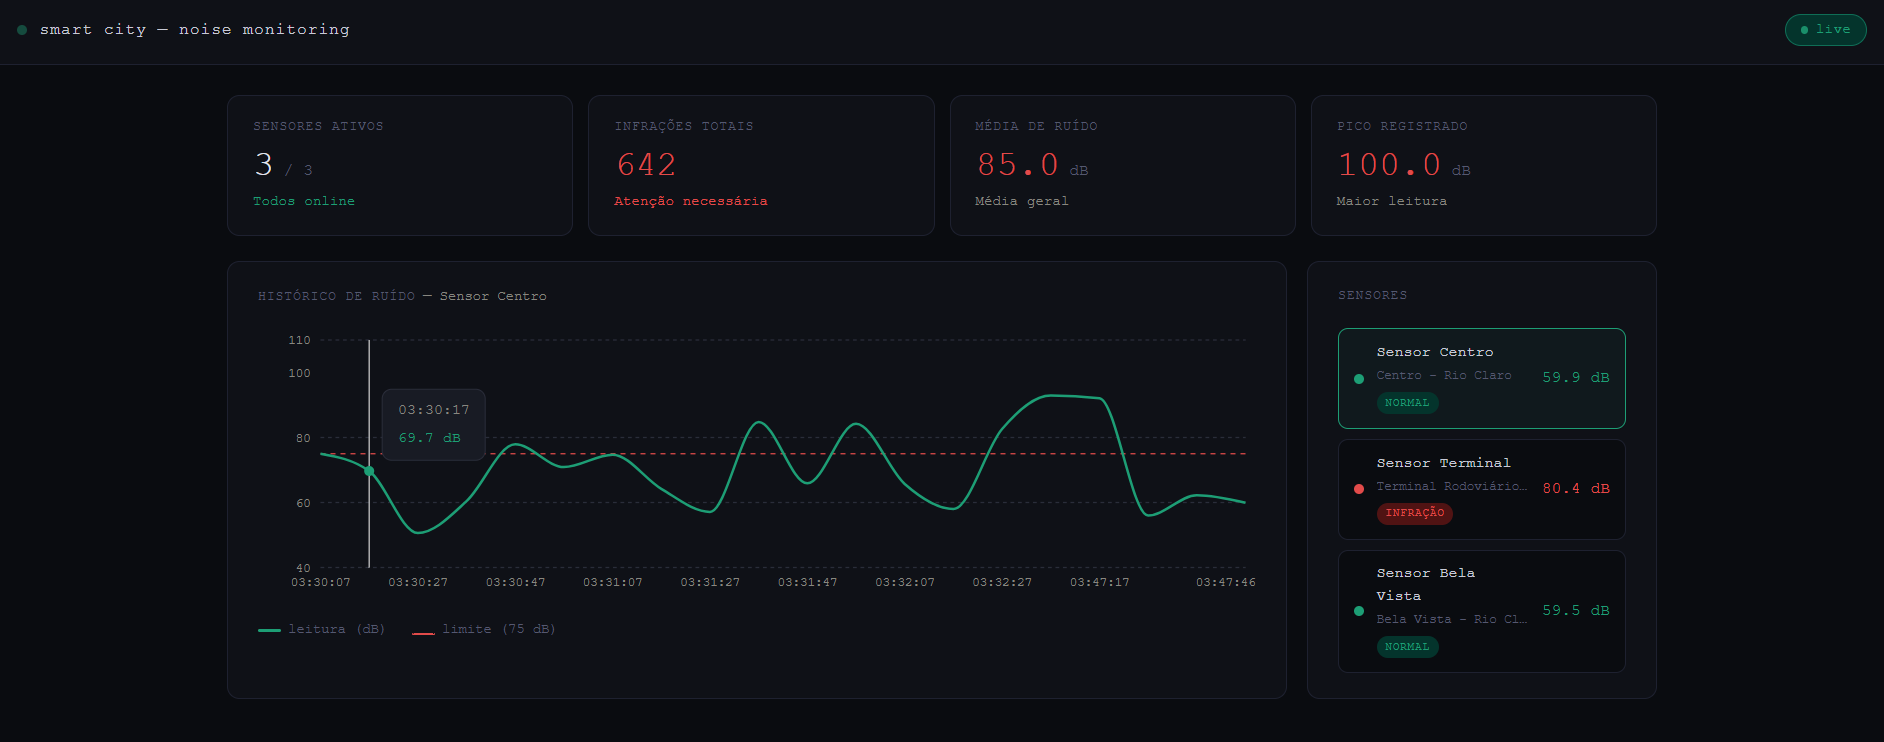
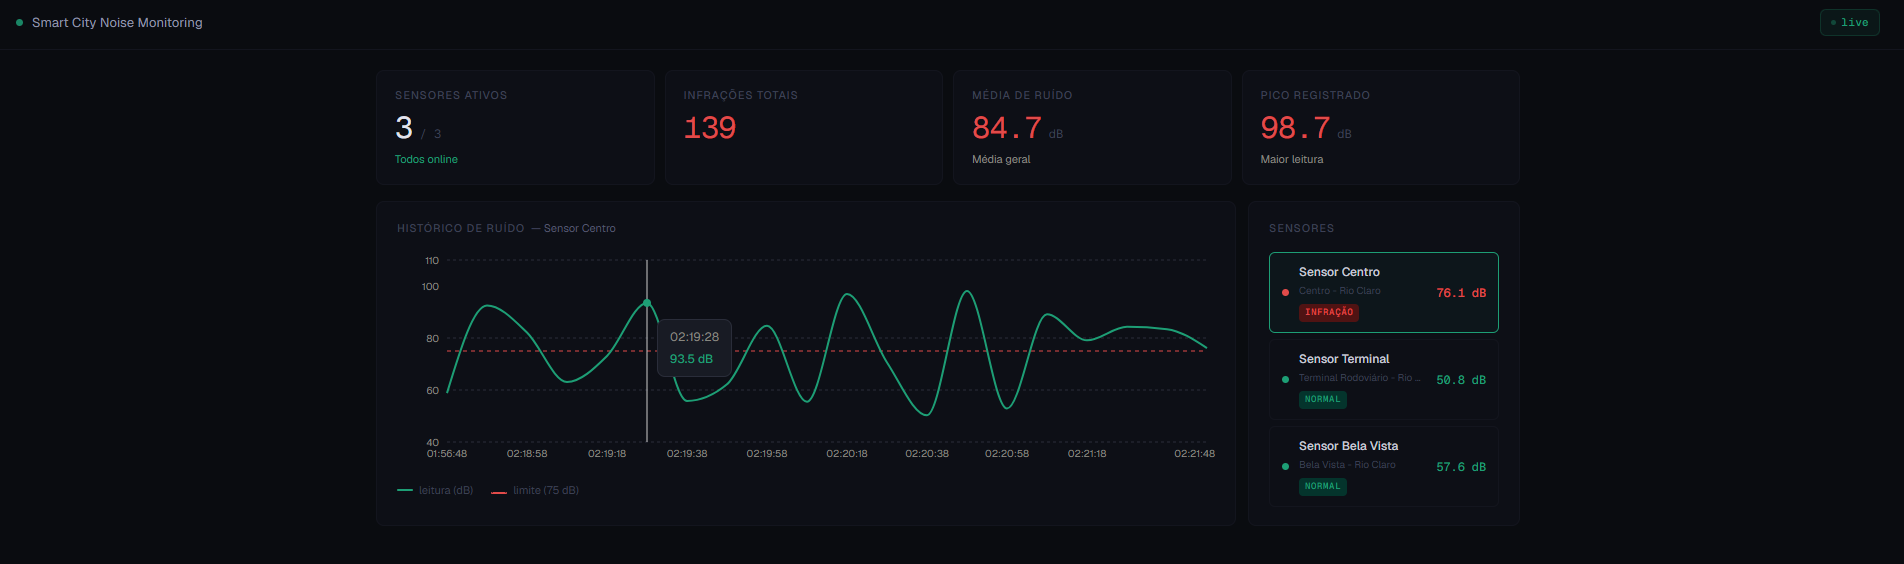
feat: improve dashboard visual design

diff --git a/frontend/src/App.css b/frontend/src/App.css
@@ -3,7 +3,7 @@
 body {
   background: #0a0c10;
   color: #e2e4ed;
-  font-family: 'DM Mono', 'Fira Code', 'Courier New', monospace;
+  font-family: 'Geist', 'Inter', system-ui, sans-serif;
   -webkit-font-smoothing: antialiased;
   min-height: 100vh;
   display: block;
@@ -22,9 +22,9 @@ body {
 }
 
 .topbar {
-  background: #0f1117;
-  border-bottom: 0.5px solid #1e2130;
-  padding: 14px 28px;
+  background: #0a0c10;
+  border-bottom: 1px solid #13151e;
+  padding: 13px 28px;
   display: flex;
   align-items: center;
   justify-content: space-between;
@@ -36,60 +36,60 @@ body {
 .topbar-left {
   display: flex;
   align-items: center;
-  gap: 10px;
+  gap: 9px;
 }
 
 .logo-dot {
-  width: 8px;
-  height: 8px;
+  width: 7px;
+  height: 7px;
   border-radius: 50%;
   background: #1D9E75;
   animation: pulse 2.5s ease-in-out infinite;
+  flex-shrink: 0;
 }
 
 @keyframes pulse {
   0%, 100% { opacity: 1; }
-  50%       { opacity: 0.4; }
+  50%       { opacity: 0.35; }
 }
 
 .logo-text {
   font-size: 13px;
-  font-weight: 500;
-  color: #c8cad6;
-  letter-spacing: 0.06em;
-  text-transform: lowercase;
+  font-weight: 400;
+  color: #9095a8;
+  letter-spacing: 0.01em;
 }
 
 .topbar-right {
   display: flex;
   align-items: center;
-  gap: 16px;
 }
 
 .live-badge {
   display: flex;
   align-items: center;
-  gap: 6px;
+  gap: 5px;
   font-size: 11px;
   font-weight: 500;
   color: #1D9E75;
-  background: #04342C;
-  padding: 4px 12px;
-  border-radius: 20px;
-  border: 0.5px solid #0F6E56;
-  letter-spacing: 0.04em;
+  background: rgba(29, 158, 117, 0.08);
+  padding: 4px 10px;
+  border-radius: 6px;
+  border: 1px solid rgba(29, 158, 117, 0.2);
+  letter-spacing: 0.03em;
+  font-family: 'Geist Mono', 'DM Mono', monospace;
 }
 
 .live-dot {
-  width: 6px;
-  height: 6px;
+  width: 5px;
+  height: 5px;
   border-radius: 50%;
   background: #1D9E75;
   animation: pulse 1.8s ease-in-out infinite;
 }
 
 .content {
-  padding: 24px 28px;
+  padding: 20px 28px 28px;
   max-width: 1200px;
   margin: 0 auto;
 }
@@ -97,88 +97,94 @@ body {
 .metrics {
   display: grid;
   grid-template-columns: repeat(4, 1fr);
-  gap: 12px;
-  margin-bottom: 20px;
+  gap: 10px;
+  margin-bottom: 16px;
 }
 
 .metric-card {
-  background: #0f1117;
-  border: 0.5px solid #1e2130;
-  border-radius: 10px;
-  padding: 18px 20px;
+  background: #0d0f16;
+  border: 1px solid #13151e;
+  border-radius: 8px;
+  padding: 16px 18px;
   transition: border-color 0.2s;
 }
 
 .metric-card:hover {
-  border-color: #2a2d3a;
+  border-color: #1e2130;
 }
 
 .metric-label {
-  font-size: 10px;
-  color: #555870;
+  font-size: 11px;
+  font-weight: 500;
+  color: #3d4155;
   text-transform: uppercase;
-  letter-spacing: 0.1em;
+  letter-spacing: 0.08em;
   margin-bottom: 10px;
 }
 
 .metric-value {
-  font-size: 28px;
-  font-weight: 500;
+  font-size: 30px;
+  font-weight: 300;
   color: #e2e4ed;
   line-height: 1;
+  font-family: 'Geist Mono', 'DM Mono', monospace;
+  letter-spacing: -0.02em;
 }
 
 .metric-unit {
-  font-size: 13px;
-  color: #555870;
+  font-size: 12px;
+  color: #3d4155;
   font-weight: 400;
+  letter-spacing: 0;
 }
 
 .metric-sub {
   font-size: 11px;
-  margin-top: 6px;
-  letter-spacing: 0.02em;
+  margin-top: 8px;
+  font-weight: 400;
 }
 
-.ok    { color: #1D9E75; }
-.warn  { color: #EF9F27; }
+.ok     { color: #1D9E75; }
+.warn   { color: #EF9F27; }
 .danger { color: #E24B4A; }
 
 .main-grid {
   display: grid;
-  grid-template-columns: 1fr 280px;
-  gap: 16px;
+  grid-template-columns: 1fr 272px;
+  gap: 12px;
 }
 
 .panel {
-  background: #0f1117;
-  border: 0.5px solid #1e2130;
-  border-radius: 10px;
-  padding: 20px 24px;
+  background: #0d0f16;
+  border: 1px solid #13151e;
+  border-radius: 8px;
+  padding: 18px 20px;
 }
 
 .panel-title {
-  font-size: 10px;
-  color: #555870;
+  font-size: 11px;
+  font-weight: 500;
+  color: #3d4155;
   text-transform: uppercase;
-  letter-spacing: 0.1em;
-  margin-bottom: 18px;
+  letter-spacing: 0.08em;
+  margin-bottom: 16px;
   display: flex;
   align-items: center;
   gap: 6px;
 }
 
 .panel-title-sub {
-  color: #888780;
+  color: #555870;
   text-transform: none;
   letter-spacing: 0;
   font-size: 11px;
+  font-weight: 400;
 }
 
 .chart-legend {
   display: flex;
-  gap: 20px;
-  margin-top: 12px;
+  gap: 18px;
+  margin-top: 10px;
 }
 
 .legend-item {
@@ -186,12 +192,12 @@ body {
   align-items: center;
   gap: 6px;
   font-size: 11px;
-  color: #555870;
+  color: #3d4155;
 }
 
 .legend-line {
   display: inline-block;
-  width: 18px;
+  width: 16px;
   height: 2px;
   border-radius: 2px;
 }
@@ -199,7 +205,7 @@ body {
 .sensor-list {
   display: flex;
   flex-direction: column;
-  gap: 8px;
+  gap: 6px;
 }
 
 .sensor-item {
@@ -207,25 +213,26 @@ body {
   align-items: center;
   gap: 10px;
   padding: 10px 12px;
-  border-radius: 8px;
-  border: 0.5px solid #1e2130;
-  background: #0a0c10;
+  border-radius: 6px;
+  border: 1px solid #13151e;
+  background: transparent;
   cursor: pointer;
   transition: border-color 0.15s, background 0.15s;
 }
 
 .sensor-item:hover {
-  background: #12141c;
-  border-color: #2a2d3a;
+  background: #0f1119;
+  border-color: #1e2130;
 }
 
 .sensor-item.active {
-  background: rgba(29, 158, 117, 0.06);
+  background: rgba(29, 158, 117, 0.05);
+  border-color: rgba(29, 158, 117, 0.25);
 }
 
 .sensor-dot {
-  width: 8px;
-  height: 8px;
+  width: 7px;
+  height: 7px;
   border-radius: 50%;
   flex-shrink: 0;
 }
@@ -237,13 +244,16 @@ body {
 
 .sensor-name {
   font-size: 12px;
-  color: #c8cad6;
   font-weight: 500;
+  color: #c8cad6;
+  white-space: nowrap;
+  overflow: hidden;
+  text-overflow: ellipsis;
 }
 
 .sensor-loc {
   font-size: 10px;
-  color: #555870;
+  color: #3d4155;
   margin-top: 2px;
   white-space: nowrap;
   overflow: hidden;
@@ -253,20 +263,23 @@ body {
 .status-badge {
   display: inline-block;
   font-size: 9px;
-  letter-spacing: 0.06em;
+  font-weight: 600;
+  letter-spacing: 0.07em;
   text-transform: uppercase;
-  padding: 2px 7px;
-  border-radius: 10px;
-  margin-top: 4px;
-  font-weight: 500;
+  padding: 2px 6px;
+  border-radius: 4px;
+  margin-top: 5px;
+  font-family: 'Geist Mono', 'DM Mono', monospace;
 }
 
 .sensor-db {
-  font-size: 13px;
+  font-size: 12px;
   font-weight: 500;
   text-align: right;
   flex-shrink: 0;
   font-variant-numeric: tabular-nums;
+  font-family: 'Geist Mono', 'DM Mono', monospace;
+  letter-spacing: -0.01em;
 }
 
 @media (max-width: 900px) {
@@ -283,6 +296,6 @@ body {
     grid-template-columns: 1fr 1fr;
   }
   .content {
-    padding: 16px;
+    padding: 14px;
   }
 }

diff --git a/frontend/src/App.jsx b/frontend/src/App.jsx
@@ -39,7 +39,7 @@ export default function App() {
       <header className="topbar">
         <div className="topbar-left">
           <span className="logo-dot" />
-          <span className="logo-text">Smart City — Noise Monitoring</span>
+          <span className="logo-text">Smart City Noise Monitoring</span>
         </div>
         <div className="topbar-right">
           <span className="live-badge">
@@ -68,12 +68,6 @@ export default function App() {
                 style={{ color: stats.totalInfractions > 0 ? "#E24B4A" : "#1D9E75" }}
               >
                 {stats.totalInfractions}
-              </div>
-              <div
-                className="metric-sub"
-                style={{ color: stats.totalInfractions > 0 ? "#E24B4A" : "#1D9E75" }}
-              >
-                {stats.totalInfractions > 0 ? "Atenção necessária" : "Sem infrações"}
               </div>
             </div>
 

diff --git a/frontend/index.html b/frontend/index.html
@@ -4,7 +4,10 @@
     <meta charset="UTF-8" />
     <link rel="icon" type="image/svg+xml" href="/vite.svg" />
     <meta name="viewport" content="width=device-width, initial-scale=1.0" />
-    <title>frontend</title>
+    <title>Smart City Noise Monitoring</title>
+    <link rel="preconnect" href="https://fonts.googleapis.com">
+    <link rel="preconnect" href="https://fonts.gstatic.com" crossorigin>
+    <link href="https://fonts.googleapis.com/css2?family=Geist:wght@300;400;500;600&family=Geist+Mono:wght@400;500&display=swap" rel="stylesheet">
   </head>
   <body>
     <div id="root"></div>